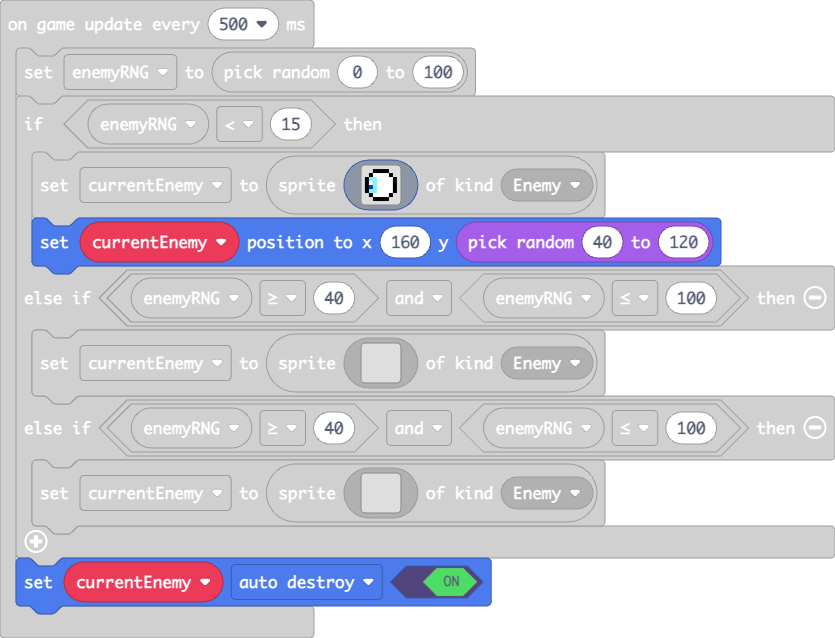
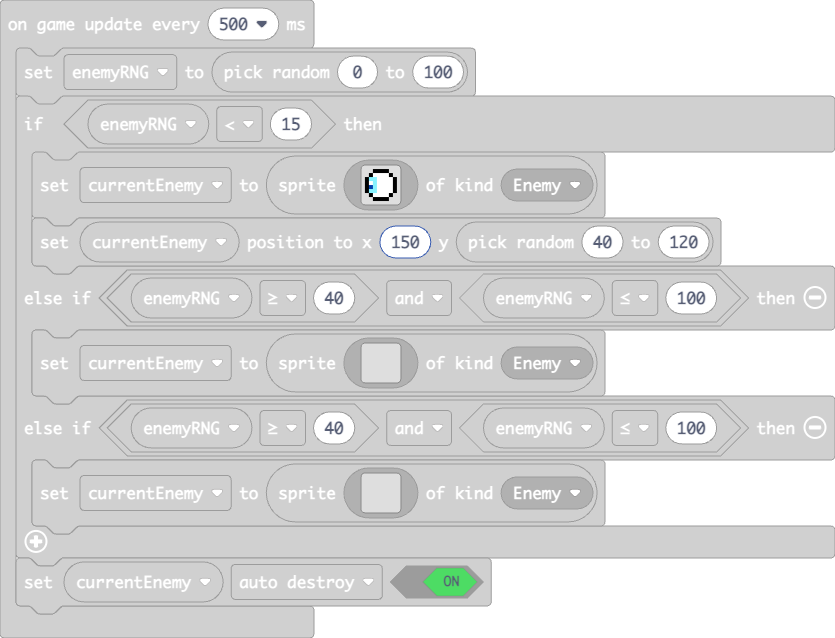
Update main.blocks, main.ts

Changed region(s): [[0.0311, 0.2382, 0.8719, 0.4467], [0.0, 0.8636, 0.5916, 0.9828]]

diff --git a/main.ts b/main.ts
@@ -45,7 +45,7 @@ game.onUpdateInterval(500, function () {
             . f 1 1 1 1 f . 
             . . f f f f . . 
             `, SpriteKind.Enemy)
-        currentEnemy.setPosition(160, randint(40, 120))
+        currentEnemy.setPosition(150, randint(40, 120))
     } else if (enemyRNG >= 40 && enemyRNG <= 100) {
         currentEnemy = sprites.create(img`
             . . . . . . . . . . . . . . . . 
